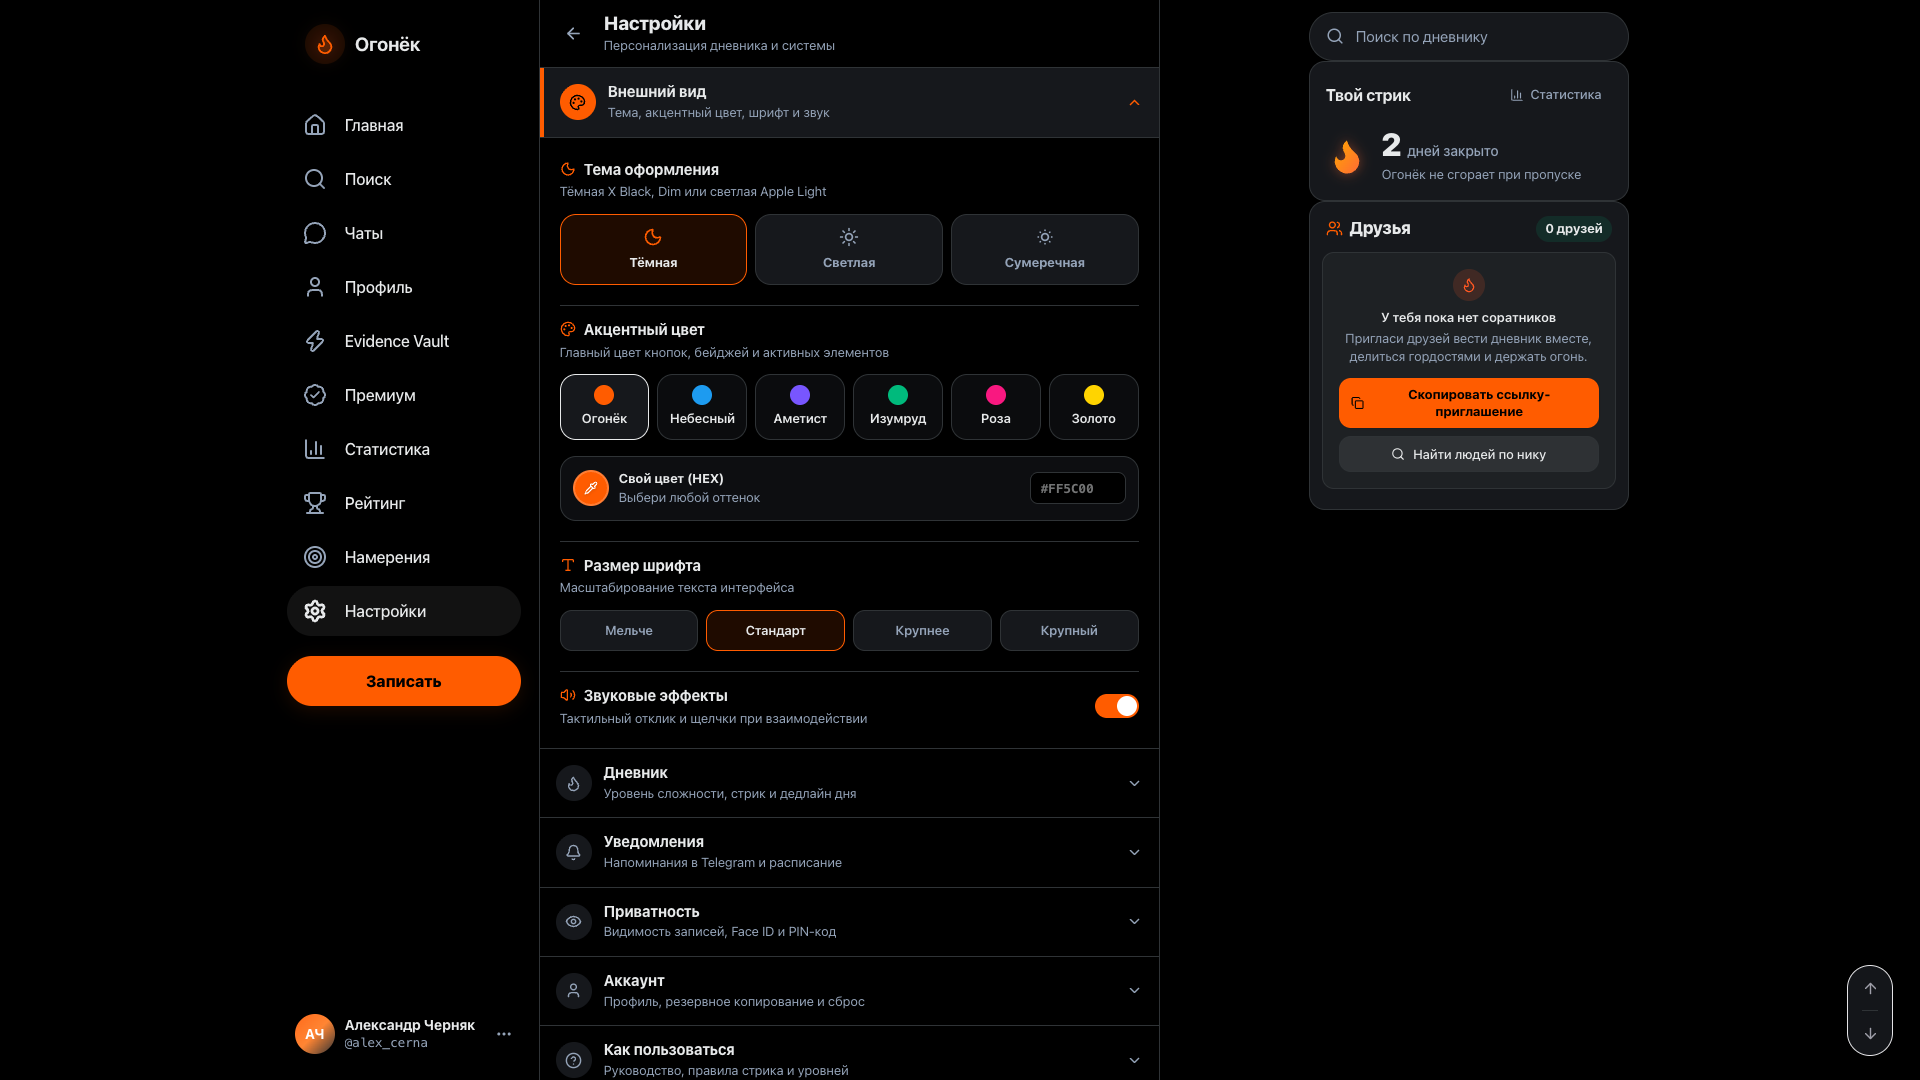
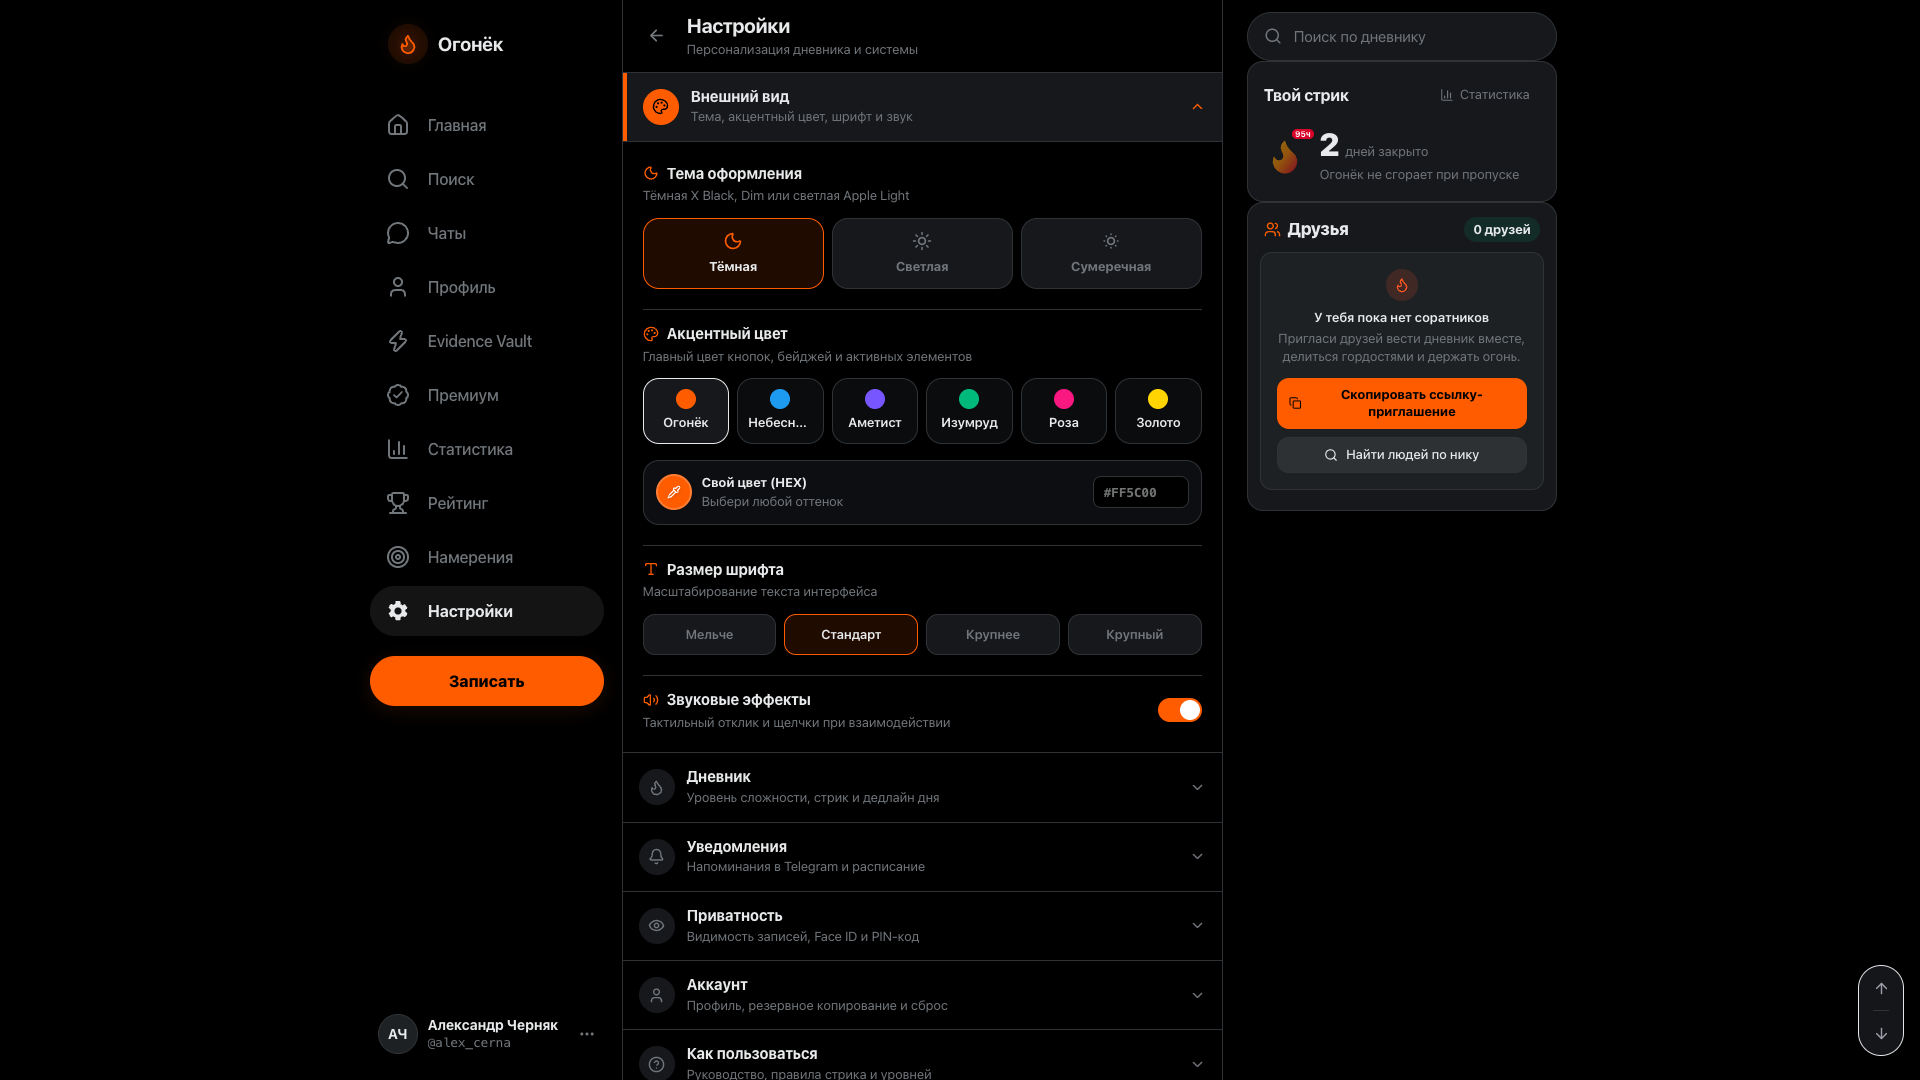
style: perfect contrast and theme tokens across Dark, Light and Dim themes

diff --git a/styles/tokens.css b/styles/tokens.css
@@ -19,9 +19,9 @@ body[data-theme='x-black'] {
   --line: #2F3336;
 
   --text: #E7E9EA;
-  --text-2: #94A3B8; /* WCAG 4.5:1+ */
-  --text-3: #94A3B8;
-  --muted: #94A3B8;
+  --text-2: #71767B;
+  --text-3: #71767B;
+  --muted: #71767B;
 
   --danger: #F4212E;
   --danger-soft: rgba(244, 33, 46, 0.12);
@@ -49,9 +49,9 @@ body[data-theme='apple-light'] {
   --line: #EFF3F4;
 
   --text: #0F1419;
-  --text-2: #475569; /* WCAG 4.5:1+ */
-  --text-3: #475569;
-  --muted: #475569;
+  --text-2: #536471;
+  --text-3: #536471;
+  --muted: #536471;
 
   --danger: #F4212E;
   --danger-soft: rgba(244, 33, 46, 0.1);
@@ -67,7 +67,7 @@ body[data-theme='dim'] {
   --bg: #15202B;
   --bg-elev: #1E2732;
   --surface: #1E2732;
-  --surface2: #273340;
+  --surface2: #22303C;
   --bg-hover: rgba(231, 233, 234, 0.08);
   --bg-hover-post: rgba(255, 255, 255, 0.03);
   --border: #38444D;
@@ -75,10 +75,10 @@ body[data-theme='dim'] {
   --border-strong: #4B5966;
   --line: #38444D;
 
-  --text: #E7E9EA;
-  --text-2: #94A3B8; /* WCAG 4.5:1+ */
-  --text-3: #94A3B8;
-  --muted: #94A3B8;
+  --text: #F7F9F9;
+  --text-2: #8B98A5;
+  --text-3: #8B98A5;
+  --muted: #8B98A5;
 
   --danger: #F4212E;
   --danger-soft: rgba(244, 33, 46, 0.12);
